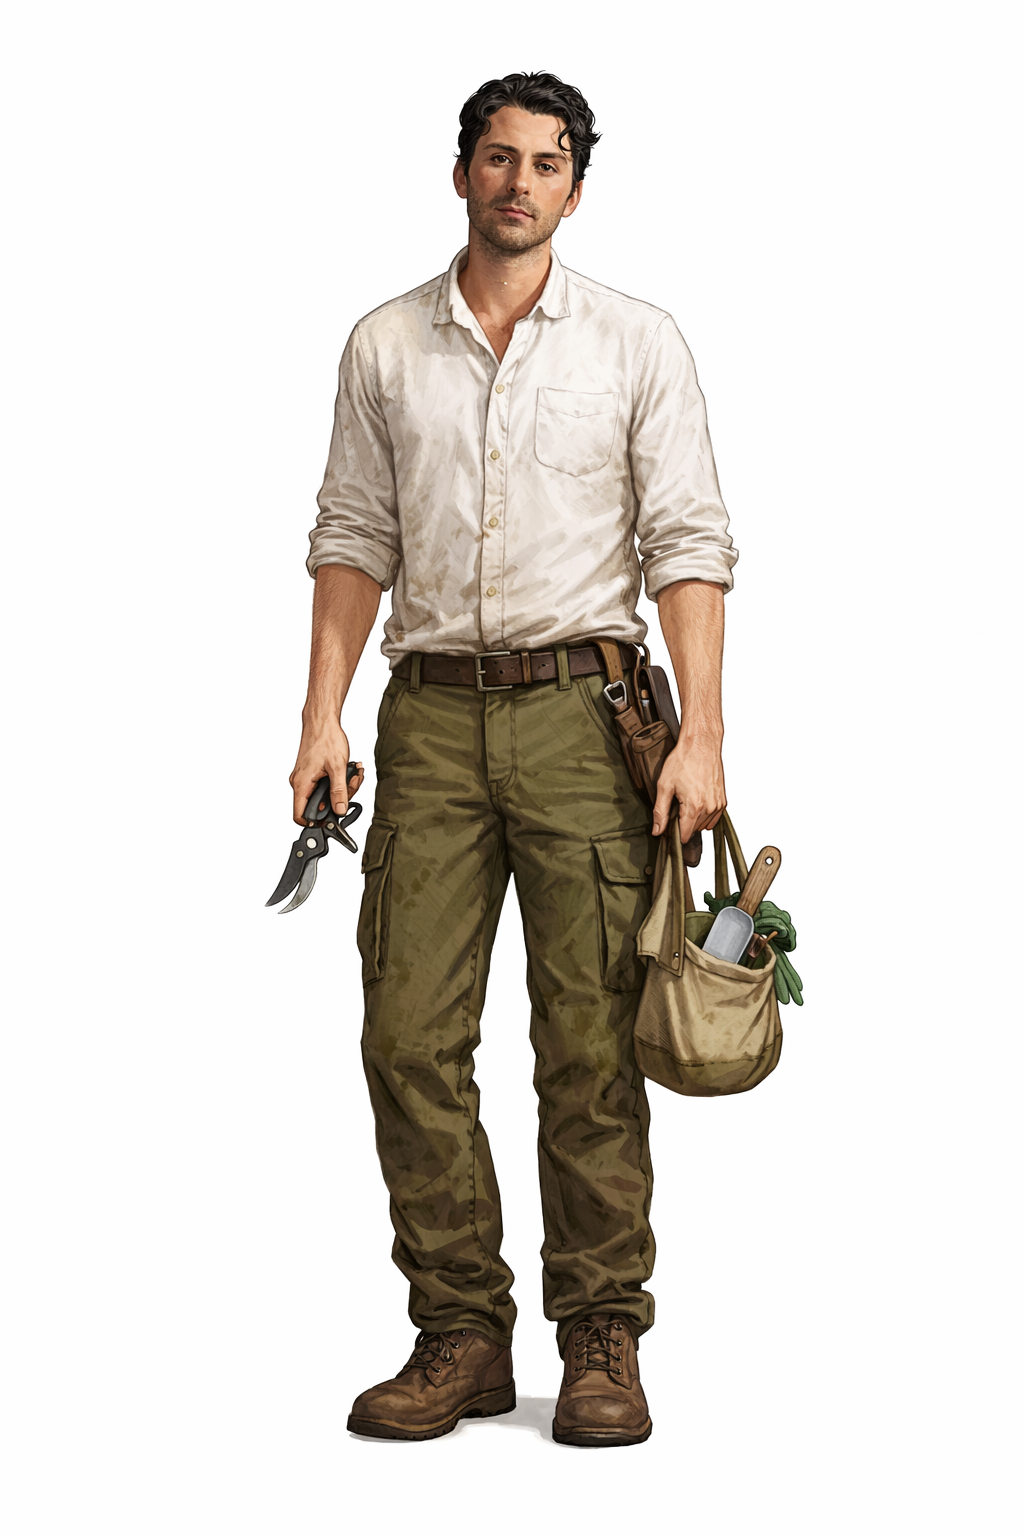
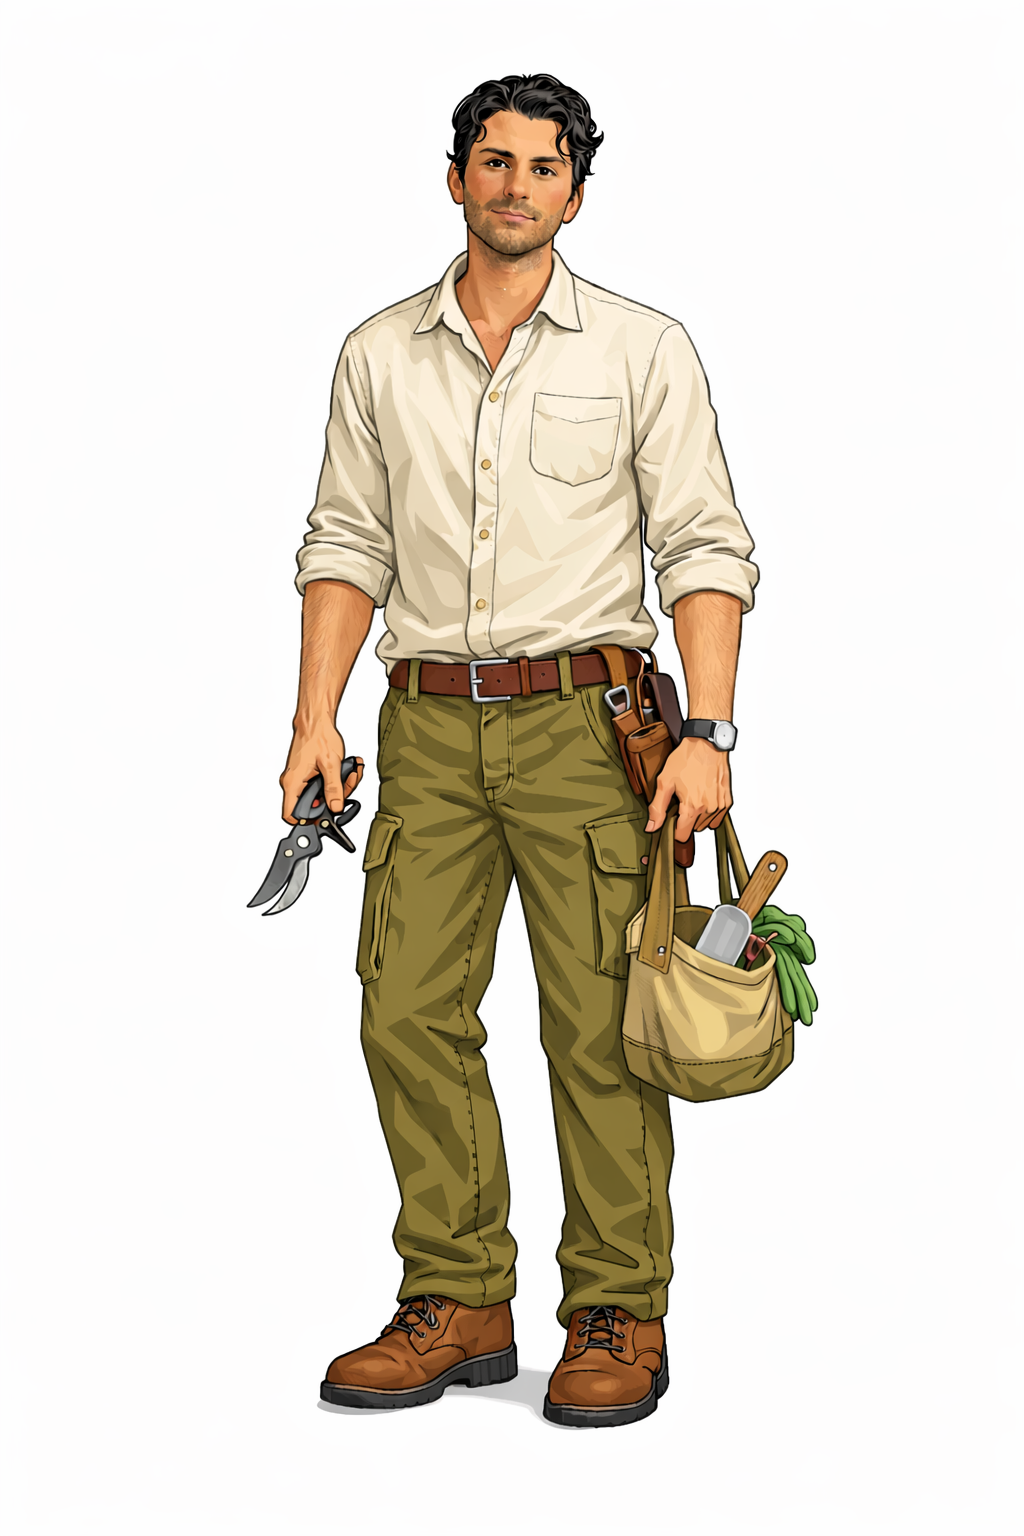
maj

Changed region(s): [[0.25, 0.0312, 0.8125, 0.9688]]

diff --git a/styles.css b/styles.css
@@ -2495,7 +2495,7 @@ a.highlight-blue {
 }
 
 .character-card-media-lice {
-    background-image: url('./images/personnages/antoine debrizuela/Liceohara.png');
+    background-image: url('./images/personnages/Liceohara/Liceohara.png');
     background-position: center calc(12% + 20px);
     background-repeat: no-repeat;
     background-size: 185%;

diff --git a/textes/lespersonnages/liceohara.md b/textes/lespersonnages/liceohara.md
@@ -1,5 +1,5 @@
 <figure class="article-figure-left">
-	<img src="../images/personnages/antoine debrizuela/Liceohara.png" alt="Portrait de Lice Ohara">
+	<img src="../images/personnages/Liceohara/Liceohara.png" alt="Portrait de Lice Ohara">
 	<figcaption>Lice Ohara après son départ du CERF.</figcaption>
 </figure>
 